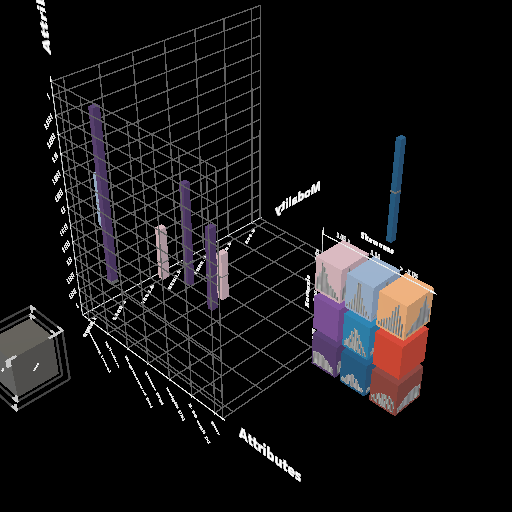
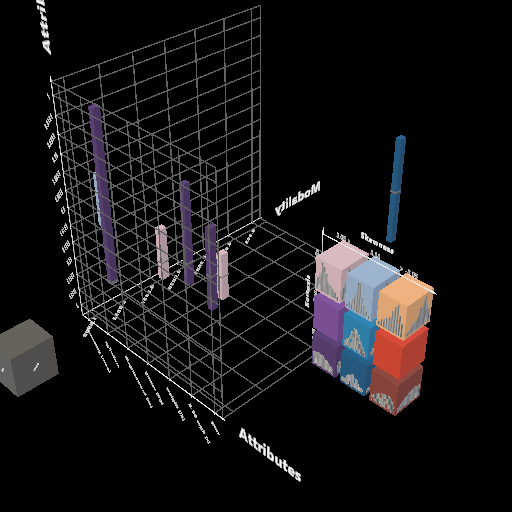
fixed null error after trash can deletion

diff --git a/Assets/_AugmeNDT/Scripts/UI_Scripts/Bin/TrashCan.cs b/Assets/_AugmeNDT/Scripts/UI_Scripts/Bin/TrashCan.cs
@@ -6,10 +6,24 @@ using MixedReality.Toolkit.SpatialManipulation;
 
 public class TrashCan : MonoBehaviour
 {
+  //  [SerializeField] private string deletableTag = "Deletable";
     private void OnTriggerEnter(Collider other)
     {
-        Destroy(other.gameObject); Destroy(other.gameObject);
-     
+       // if (!other.CompareTag(deletableTag)) return;
+
+        // Check if handle of a graph/plot
+        bool isGraphHandle = other.name.Contains("HandleObject");
+
+        if (isGraphHandle)
+        {
+            Destroy(other.transform.parent.parent.gameObject);  // deletes MDD Glyphs Chart etc.
+        }
+        else
+        {
+             Destroy(other.gameObject);
+
+        }
+
 
     }
 }

diff --git a/Assets/_AugmeNDT/Scripts/Runtime/DataObjects/DataVis/VisContainer/VisContainer.cs b/Assets/_AugmeNDT/Scripts/Runtime/DataObjects/DataVis/VisContainer/VisContainer.cs
@@ -91,6 +91,7 @@ namespace AugmeNDT{
 
         public void DeleteVisContainer()
         {
+            if (anchoredContainer == null) return;//anu
             foreach (Transform child in anchoredContainer.transform)
             {
                 GameObject.Destroy(child.gameObject);